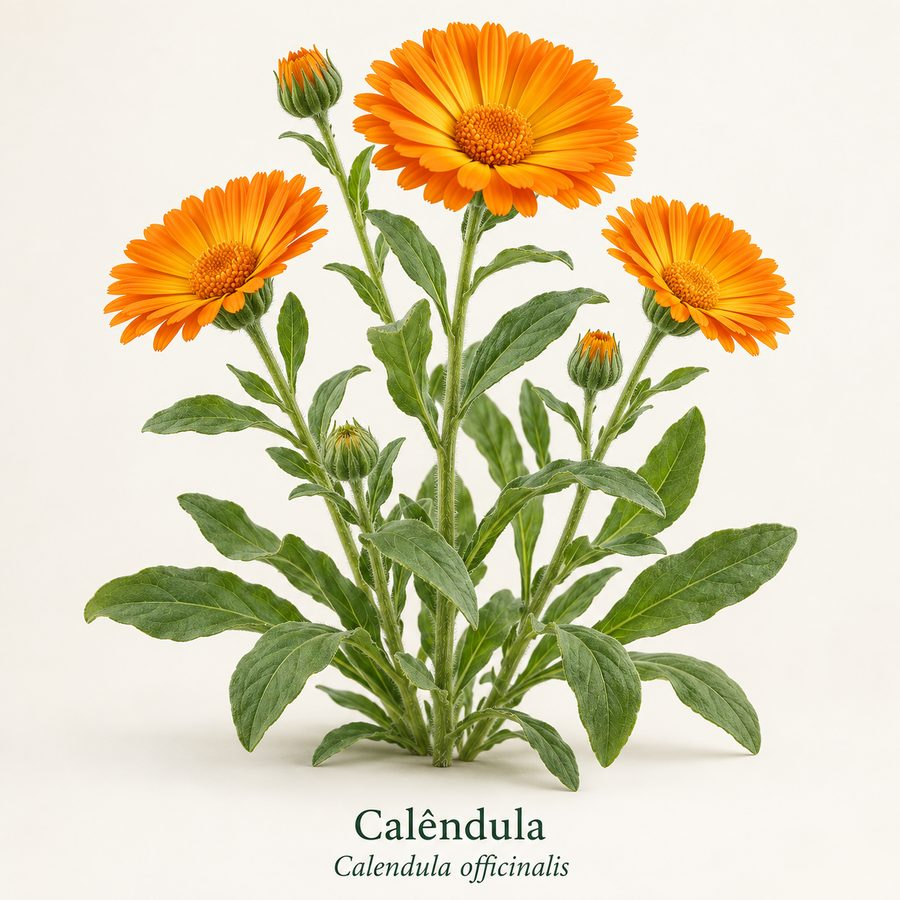
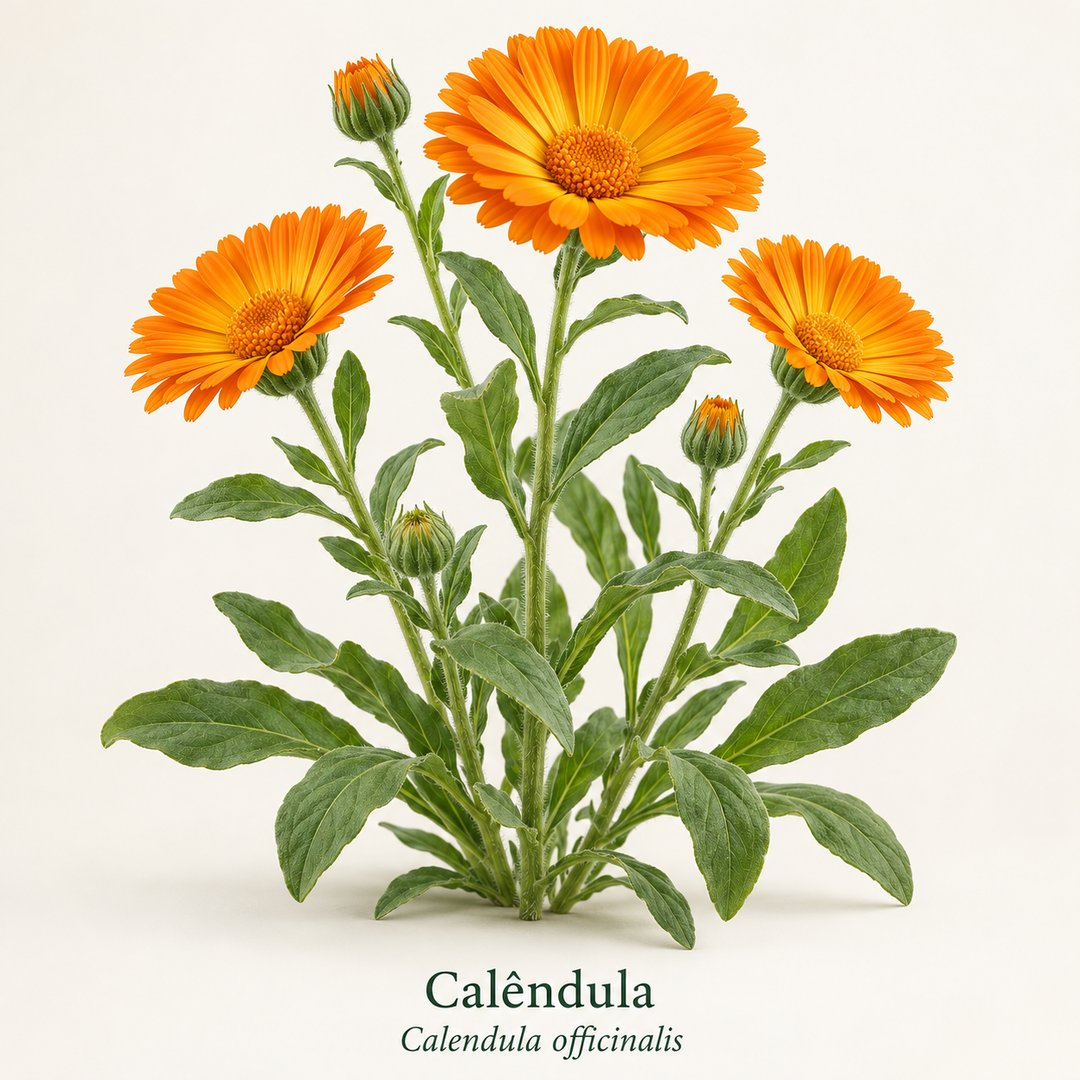
Capas das espécies em 1080x1080 (1:1), exibidas sem corte

Changed region(s): [[0.4667, 0.9022, 0.4978, 0.9333]]

diff --git a/app/css/app.css b/app/css/app.css
@@ -248,3 +248,10 @@ body.no-tabbar { padding-bottom: 0; }
 .risk-ci { background: var(--surface); border: 1px solid var(--line); border-radius: 12px; padding: 10px 12px; }
 .risk-ci summary { cursor: pointer; font-weight: 700; font-size: .92rem; }
 .risk-ci ul { margin-top: 8px; }
+
+/* capas 1:1 (1080 × 1080): planta inteira, sem corte */
+.plant-card .ph { aspect-ratio: 1 / 1; }
+.plant-card .ph img { object-fit: cover; }
+.gallery .main { aspect-ratio: 1 / 1; }
+.gallery .main.is-capa img { height: 94%; margin: 3% auto 0; }
+@media (min-width: 820px) { .ficha-top { grid-template-columns: 440px 1fr; } }

diff --git a/app/sw.js b/app/sw.js
@@ -1,6 +1,6 @@
 /* Service worker: busca sempre a versão online (rede primeiro) e guarda uma cópia
    para funcionar sem internet. Imagens: cache primeiro. Altere VERSION ao publicar mudanças grandes. */
-const VERSION = 'fitotech-v2';
+const VERSION = 'fitotech-v3';
 const CORE = ['./', 'index.html', 'css/app.css', 'js/app.js', 'js/data.js', 'manifest.webmanifest', 'assets/icons/icon-192.png'];
 
 self.addEventListener('install', e => {
